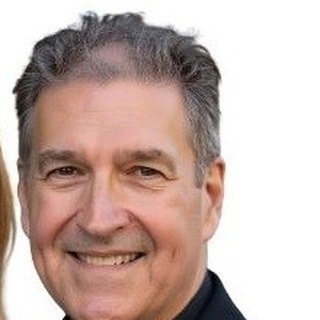
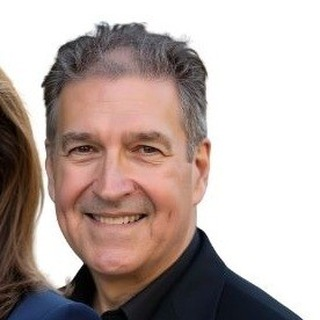
Fix Will's headshot, featured-listing size, area tiles; wire kvCore lead dropboxes (#2)
Re-centered Will's headshot crop, capped the featured-listing photo at ~64vh, swapped the Yulee & Wildlight and Nassau County tile photos, and shipped the verified agent-scoped kvCore Lead Dropbox addresses as built-in defaults (env vars still override). Lead sender defaults to leads@soldonameliaisland.com so Resend setup needs only the API key.

diff --git a/netlify/functions/lead-submit.ts b/netlify/functions/lead-submit.ts
@@ -107,10 +107,16 @@ async function isRateLimited(ip: string): Promise<boolean> {
  * Each agent has their own agent-scoped dropbox, so the created contact is
  * owned by that agent directly rather than going through company lead rules.
  * ------------------------------------------------------------------------- */
+// Verified live agent-scoped dropbox addresses (Gmail "Add Contact" test
+// parsed successfully). Env vars still win, so either address can be rotated
+// from the Netlify dashboard without a deploy.
+const DROPBOX_WILL = 'leads+berkshirehathawayhomeservicesheymannwilliamsrealty11169-a-2000162@kvcore.com';
+const DROPBOX_KELLY = 'leads+berkshirehathawayhomeservicesheymannwilliamsrealty11169-a-1770460@kvcore.com';
+
 function dropboxFor(dealType: Lead['dealType']): { to: string; agent: string } | null {
   const shared = process.env.BOLDTRAIL_DROPBOX_EMAIL ?? '';
-  const seller = process.env.BOLDTRAIL_DROPBOX_EMAIL_SELLER || shared;
-  const buyer = process.env.BOLDTRAIL_DROPBOX_EMAIL_BUYER || shared;
+  const seller = process.env.BOLDTRAIL_DROPBOX_EMAIL_SELLER || shared || DROPBOX_WILL;
+  const buyer = process.env.BOLDTRAIL_DROPBOX_EMAIL_BUYER || shared || DROPBOX_KELLY;
   if (dealType === 'Seller') {
     return seller ? { to: seller, agent: 'Will Henderson' } : null;
   }
@@ -186,7 +192,9 @@ export default async (req: Request): Promise<Response> => {
 
   const route = dropboxFor(lead.dealType);
   const apiKey = process.env.RESEND_API_KEY;
-  const from = process.env.LEAD_FROM_EMAIL;
+  // Default sender — the domain must be verified in the Resend account that
+  // owns RESEND_API_KEY. Override via env var to send from a different domain.
+  const from = process.env.LEAD_FROM_EMAIL || 'leads@soldonameliaisland.com';
   const body = formatDropboxBody(lead);
 
   // Durable record written BEFORE the send, so a lead is traceable even if the

diff --git a/index.html b/index.html
@@ -426,11 +426,11 @@
         <div class="area-label"><h3 class="serif">Fernandina Beach</h3><span>Historic charm, walkable downtown</span></div>
       </a>
       <a class="area-tile interactive reveal delay-200" href="https://ameliaisland.heymannwilliams.com/search" target="_blank" rel="noopener">
-        <div class="area-bg" style="background-image:url('./assets/img/area-3.jpg')"></div>
+        <div class="area-bg" style="background-image:url('./assets/img/area-getmedia-06.jpg')"></div>
         <div class="area-label"><h3 class="serif">Yulee &amp; Wildlight</h3><span>New construction &amp; room to grow</span></div>
       </a>
       <a class="area-tile interactive reveal delay-300" href="https://ameliaisland.heymannwilliams.com/search" target="_blank" rel="noopener">
-        <div class="area-bg" style="background-image:url('./assets/img/area-getmedia-06.jpg')"></div>
+        <div class="area-bg" style="background-image:url('./assets/img/uploads/area-img-2869.jpg')"></div>
         <div class="area-label"><h3 class="serif">Nassau County</h3><span>Marsh views &amp; quiet acreage</span></div>
       </a>
     </div>

diff --git a/css/site.css b/css/site.css
@@ -334,9 +334,14 @@ nav#navbar.scrolled {
    the image means the whole photograph is always visible — never cropped —
    and an odd-ratio photo from a future import letterboxes instead of losing
    its edges. Nothing is layered over the image. */
+/* Cap the photo so the whole card fits on one screen: the frame keeps its
+   3:2 shape but its width is limited to whatever keeps the photo around
+   two-thirds of the viewport tall, centered in the card. On narrow screens
+   the width limit is larger than the card, so this is a no-op there. */
 .featured-photo-btn {
-  position: relative; display: block; width: 100%; aspect-ratio: 3 / 2;
-  padding: 0; border-radius: 1.15rem 1.15rem 0 0; overflow: hidden; background: var(--night);
+  position: relative; display: block; width: min(100%, calc(64vh * 3 / 2)); margin-inline: auto;
+  aspect-ratio: 3 / 2;
+  padding: 0; border-radius: 1rem; overflow: hidden; background: var(--night);
   cursor: zoom-in;
 }
 .featured-photo-btn > img { width: 100%; height: 100%; object-fit: contain; transition: opacity .45s var(--ease-ios); }
